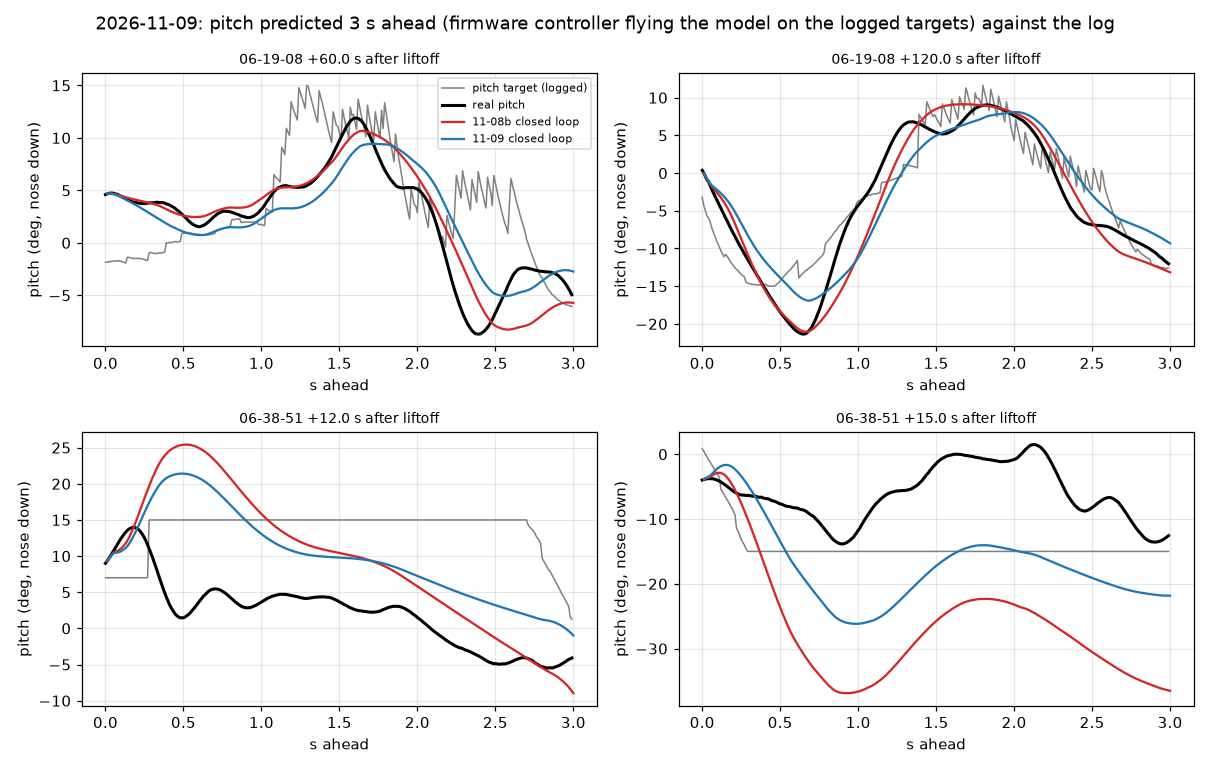
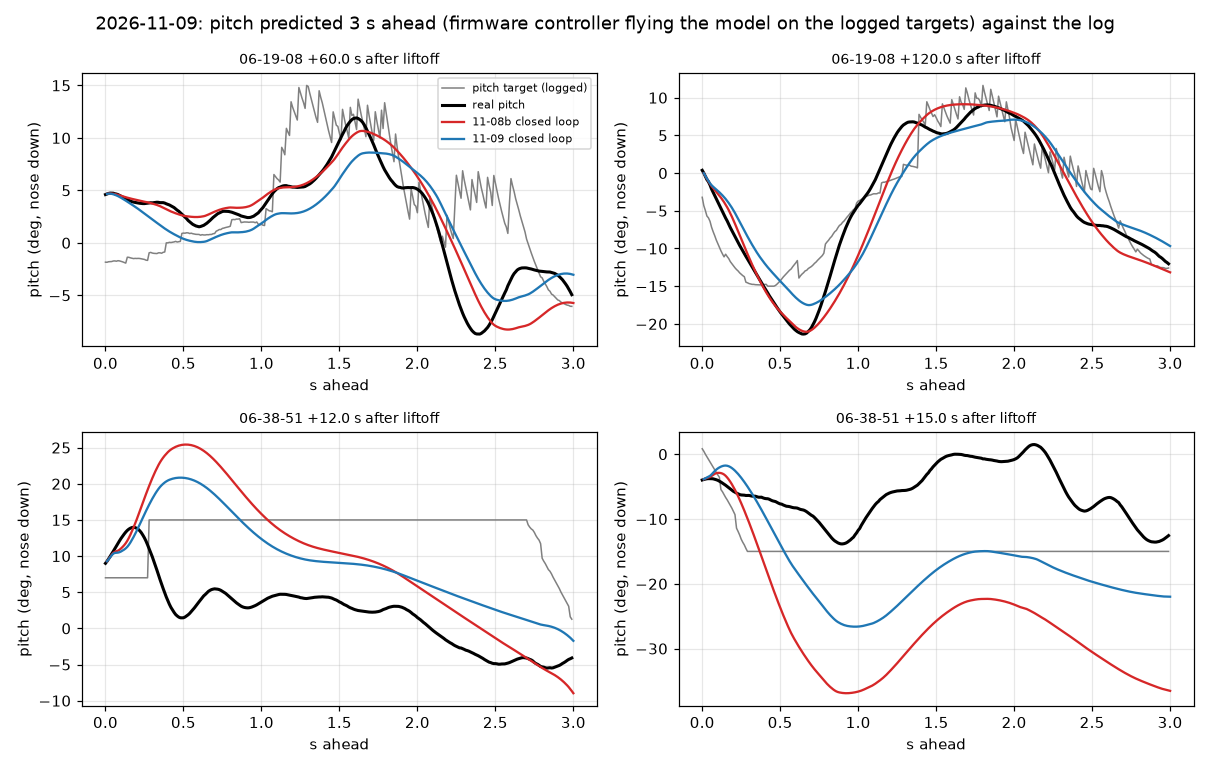
airframe_2026-11-09: com_x 0.00018 m (was 0.00075) from the 2026-11-09 flights' servo tilt at zero speed (-1.7 degrees; with 0.00075 and no pushes the sim hovered with the servos 7.4 degrees back and the body 5.7 nose-down, now -2.2 and +1.7); held out by session every session moves under 0.35 degre

diff --git a/src/sw/sim/speed_hold.py b/src/sw/sim/speed_hold.py
@@ -91,7 +91,8 @@ def static(job):
     p, _ = outdoor_plant(airframe, 0.0, seed, True, True, settings.get("hover_climb", 1.0))
     # Air blowing toward the tail (world -x, the nose at engagement facing it) is a forward airspeed.
     p |= {"wind_mean": (-airspeed, 0.0), "wind": 0.0, "wind_vertical": 0.0, "disturbances": [], "gps": GPS | {"velocity_noise": 0.0, "vertical_noise": 0.0, "position_noise": 0.0, "heading": 0.0}}
-    s = dict(settings) | {"hover_camera": 0, "hover_center": 0, "hover_gps_heading": 0.0}
+    # The hold steers by the GPS only once its heading is pinned (79fa5b2), which a drone held still in a steady wind may never do: the calibration pulses pin it.
+    s = dict(settings) | {"hover_camera": 0, "hover_center": 0, "hover_gps_heading": 0.0, "hover_gps_calibrate": settings.get("hover_gps_calibrate") or 5.0}
     log = []
     result = run(s, p, seconds=seconds, seed=seed, log=log, hover=True)
     if not result["stable"]:

diff --git a/src/sw/sim/models/NOTES.md b/src/sw/sim/models/NOTES.md
@@ -304,14 +304,16 @@ Optical flow from the forward camera (outdoor.py --flow 5,30: the scene 5-30 m a
 
 **Velocity in the fits.** identify_airframe, crossval_airframe and validate_model take --truth DIR (gps_truth.py --save: IMU, barometer and latency-aligned GPS velocity smoothed per flight) as the body-frame velocity where it exists (86% of the 11-09 airborne time; the tag indoors) and, with --measured-input, as the speed terms' input at every step, a missing velocity taken as still. Carried from the attitude at the measured drag, the airframe's own velocity runs off on the level reference's error (gps_truth 1b: 0.1-0.5 m/s² per flight) by about 1 m/s in 2 s, and from takeoff on flights without any measured velocity to meters per second: before that change the roll error held out on 11-09 rose from 1.34 to 1.83 degrees at 250 ms with nothing in roll changed but the sideways drag (the moment's product held). The tables below all use it.
 
-**The model** (models/airframe_2026-11-09.json at geometry_2026-11-08b.json, 2x pitch inertia; sweep.CURRENT). 11-08b with the measured terms set (tilt_push 0.78, vx_drag 0.07, vy_drag 0.2, voltage_power 1.42, right_thrust_gain 1.111; identify_airframe.TIED now holds the first four) and the forward speed moment set to the measured balance: drag_z_x 0.128 m on the 0.07/s drag, 0.0083 N m per m/s (half of 11-08b's); drag_z_y 0.153 m so the sideways moment per m/s is unchanged (nothing has measured it); pitch_wake -0.81 and wake_tau 0.77 s as before; thrust trim and pushes from the 11-09 flights. drag_z_x is now a lever on the small measured drag, not where a drag acts (0.128 m is above the rotors at 0.094 m): the moment is mostly the rotors flapping back, which a drag at a height only stands in for. The hover sim's static balance on it: 7.66-7.76 degrees of tilt and -5.35 to -5.47 of body pitch per m/s, held to 3 m/s of headwind and blown off at 4 at hover_tilt 15 (models/static_balance_2026-11-09.png); at zero airspeed it holds the servos 7.4 degrees back where the flights' blocks sit at -1.7 (the pushes and com_x, which each flight's integrators absorb). Checks on that choice: a closed-loop multi-step fit of drag_z_x on all of drone 1's 11-08 and 11-09 flights gives 0.136 at pitch_wake -0.81 (8.3 degrees per m/s), of drag_z_x and pitch_wake together 0.147 and -0.77 (8.2), with wake_tau as well 0.150, -0.75 and 0.70 s; fitted on the 11-08 flights alone (under 1 m/s) drag_z_x goes to 0.25, twice the moment, so the speed moment needs flights at speed. Scanning pitch_wake from -0.81 to 0 with drag_z_x set for 7.8 at each, held out by session: the summed pitch error at 500 ms is 30.1/29.1/29.2/32.3 degrees at -0.81/-0.6/-0.4/0 (11-08b 30.3), at 1 s 31.3/30.3/30.1/31.2 (11-08b 31.2); -0.6 predicts 3% better, -0.81 damps the 11-02 swing as the drone did (below; 0.07 at -0.6) and the current drone's flights alone fit -0.77, so it stays. Without the lumped pitch attitude term (pitch_pendulum 0.004) every session predicts worse (11-08 indoor 8.7 against 6.0 degrees at 500 ms). Pitch inertia 1.5x and 2.5x with drag_z_x refit on the 11-08 flights score the 11-09 flights at 6.4 and 5.3 degrees (2x 6.2) at 500 ms: no evidence against 2x; the pendulum measurement is still what would settle it.
+**The model** (models/airframe_2026-11-09.json at geometry_2026-11-08b.json, 2x pitch inertia; sweep.CURRENT). 11-08b with the measured terms set (tilt_push 0.78, vx_drag 0.07, vy_drag 0.2, voltage_power 1.42, right_thrust_gain 1.111; identify_airframe.TIED now holds the first four) and the forward speed moment set to the measured balance: drag_z_x 0.128 m on the 0.07/s drag, 0.0083 N m per m/s (half of 11-08b's); drag_z_y 0.153 m so the sideways moment per m/s is unchanged (nothing has measured it); pitch_wake -0.81 and wake_tau 0.77 s as before; com_x 0.00018 m (was 0.00075) from the flights' servo tilt at zero speed (-1.7 degrees; with 0.00075 and no pushes the sim hovered with the servos 7.4 degrees back and the body 5.7 degrees nose-down, now -2.2 and +1.7); thrust trim and pushes from the 11-09 flights. drag_z_x is now a lever on the small measured drag, not where a drag acts (0.128 m is above the rotors at 0.094 m): the moment is mostly the rotors flapping back, which a drag at a height only stands in for. The hover sim's static balance on it: 7.71 degrees of tilt and -5.54 of body pitch per m/s on the 06:19 settings, held to 2.5 m/s of headwind at hover_tilt 15 (lost at 3 and 4 on william/cook's hold with calibration pulses; on the hold before 79fa5b2 with com_x 0.00075 it held 3 and blew off at 4; models/static_balance_2026-11-09.png). Checks on that choice: a closed-loop multi-step fit of drag_z_x on all of drone 1's 11-08 and 11-09 flights gives 0.136 at pitch_wake -0.81 (8.3 degrees per m/s), of drag_z_x and pitch_wake together 0.147 and -0.77 (8.2), with wake_tau as well 0.150, -0.75 and 0.70 s; fitted on the 11-08 flights alone (under 1 m/s) drag_z_x goes to 0.25, twice the moment, so the speed moment needs flights at speed. Scanning pitch_wake from -0.81 to 0 with drag_z_x set for 7.8 at each, held out by session: the summed pitch error at 500 ms is 30.1/29.1/29.2/32.3 degrees at -0.81/-0.6/-0.4/0 (11-08b 30.3), at 1 s 31.3/30.3/30.1/31.2 (11-08b 31.2); -0.6 predicts 3% better, -0.81 damps the 11-02 swing as the drone did (below; 0.07 at -0.6) and the current drone's flights alone fit -0.77, so it stays. Without the lumped pitch attitude term (pitch_pendulum 0.004) every session predicts worse (11-08 indoor 8.7 against 6.0 degrees at 500 ms). Pitch inertia 1.5x and 2.5x with drag_z_x refit on the 11-08 flights score the 11-09 flights at 6.4 and 5.3 degrees (2x 6.2) at 500 ms: no evidence against 2x; the pendulum measurement is still what would settle it.
 
-**Held out by session** (crossval_airframe zero structure, the measured velocity as input; pitch error at 250/500/1000 ms in degrees; roll is unchanged to 0.02 degrees in every session, 1.32-2.02 at 250 ms; models/heldout_attitude_2026-11-09.png): 11-01/02 bands off (1.02 kg) 11-08b 4.96/4.96/5.61, new 5.01/5.20/5.89; 11-02 weak bands 3.07/4.83/5.31, 3.17/5.11/5.67; 11-08 indoor 4.60/5.75/5.98, 4.65/6.01/6.23; 11-08 outdoor (no velocity measured, so the speed moment is idle and both predict alike) 4.21/8.85/8.82; 11-09 outdoor 3.43/5.89/5.49, 3.34/4.90/4.69, its stick steps' median response error 5.3 against 4.4 degrees. The new model predicts the GPS flights 15-17% better at 0.5-1 s and the indoor sessions 4-7% worse.
+**Held out by session** (crossval_airframe zero structure, the measured velocity as input; pitch error at 250/500/1000 ms in degrees; roll is unchanged to 0.01 degrees in every session, 1.32-2.02 at 250 ms; models/heldout_attitude_2026-11-09.png): 11-01/02 bands off (1.02 kg) 11-08b 4.96/4.96/5.61, new 5.00/5.17/5.85; 11-02 weak bands 3.07/4.83/5.31, 3.15/5.05/5.61; 11-08 indoor 4.60/5.75/5.98, 4.63/5.93/6.23; 11-08 outdoor (no velocity measured, so the speed moment is idle) 4.21/8.85/8.82, 4.14/8.52/8.53; 11-09 outdoor 3.43/5.89/5.49, 3.31/4.82/4.62, its stick steps' median response error 5.3 against 4.1 degrees. The new model predicts the GPS flights 16-18% better at 0.5-1 s, the 11-08 outdoor ones 3-4% better and the indoor sessions 3-6% worse. (The pitch_wake scan above was at com_x 0.00075; com_x 0.00018 moved every session by under 0.35 degrees.)
 
-**Horizontal velocity against the GPS truth** (validate_model --truth on every 11-09 flight, from every 0.5 s: the airframe's horizontal model integrated in the world frame from the truth at the start; RMS forward/left error in m/s at 1/2/3 s; models/gps_velocity_rms_2026-11-09.png, gps_velocity_traces_2026-11-09.png). Not held out: tilt_push and the drags were measured on these flights. Predicting no change misses 0.59/0.63, 0.67/0.89, 0.71/1.01. On the logged attitude (the translational model alone): 11-08b 0.55/0.51, 0.60/0.61, 0.61/0.63; new 0.36/0.26, 0.67/0.44, 0.96/0.59, and with each flight's constant level-reference acceleration removed 0.24/0.20, 0.42/0.33, 0.57/0.43 (11-08b 0.50/0.46, 0.54/0.54, 0.54/0.56). Closed loop (the controller flying the model's attitude): 11-08b 0.80/0.53, 0.85/0.63, 0.85/0.66; new 0.56/0.31, 0.99/0.51, 1.29/0.66; from starts above 2 m/s 11-08b 2.36/1.45 at 1 s and 2.26/1.21 at 3 s, new 1.45/0.39 and 2.84/0.83. The new model is right for a second; beyond, its forward error grows with the closed-loop pitch error (5 degrees at 1 s is 0.8 m/s² of thrust direction) and the per-flight level error, while 11-08b's 1.93/s drag pulls every prediction back to zero, which a GPS-held hover mostly is.
+**Horizontal velocity against the GPS truth** (validate_model --truth on every 11-09 flight, from every 0.5 s: the airframe's horizontal model integrated in the world frame from the truth at the start; RMS forward/left error in m/s at 1/2/3 s; models/gps_velocity_rms_2026-11-09.png, gps_velocity_traces_2026-11-09.png). Not held out: tilt_push and the drags were measured on these flights. Predicting no change misses 0.59/0.63, 0.67/0.89, 0.71/1.01. On the logged attitude (the translational model alone): 11-08b 0.55/0.51, 0.60/0.61, 0.61/0.63; new 0.36/0.26, 0.67/0.44, 0.95/0.59, and with each flight's constant level-reference acceleration removed 0.24/0.20, 0.42/0.33, 0.57/0.43 (11-08b 0.50/0.46, 0.54/0.54, 0.54/0.56). Closed loop (the controller flying the model's attitude): 11-08b 0.80/0.53, 0.85/0.63, 0.85/0.66; new 0.57/0.31, 1.01/0.51, 1.32/0.66; from starts above 2 m/s 11-08b 2.36/1.45 at 1 s and 2.26/1.21 at 3 s, new 1.47/0.39 and 2.89/0.84. The new model is right for a second; beyond, its forward error grows with the closed-loop pitch error (5 degrees at 1 s is 0.8 m/s² of thrust direction) and the per-flight level error, while 11-08b's 1.93/s drag pulls every prediction back to zero, which a GPS-held hover mostly is.
 
-**Closed loop.** swing_damping on the 2026-11-02 long tag hovers (real 0.80-0.82 Hz, damping ratio 0.12-0.28, swing band 5.0-7.6 degrees): 11-08b 0.65 Hz, 0.05, 5.7; new 0.64 Hz, 0.13, 3.5 (models/swing_2026-11-09.png). outdoor_replay (new: a flight's settings, heading error and sticks on the GPS hold in the night's 0.3 m/s of wind, 8 seeds, against its truth): the 06:25 hands-off hover (26-75 s after liftoff) swung 0.72 degrees RMS in 0.4-1.6 Hz with 1.46 of pitch SD, the sim 3.13/3.91 (11-08b) and 2.44/3.17 (new), both holding within 0.5 m: outdoors the sim swings more than the drone did. The 05:53 stick (+15 degrees for 1.9 s, then released): the drone reached 4.6 m/s in 2 s, then 5.6 and 28 m in 8 s without braking (servos 25-31 degrees forward under a 20-34 degree nose-up body); the sim peaks at 2.4 m/s (11-08b) and 3.6 (new) and both brake within 2 s (models/replays_2026-11-09.png). The 06:38 hands-off fly-away (the hold's heading off by -61 degrees, 1.4 to 4.8 m/s in 18 s, mostly sideways): the sim drifts at 0.26 (11-08b) and 0.58 m/s (new), and with 250 ms of GPS latency and 2 m/s of wind still peaks under 2.7 m/s; on its logged targets (models/pitch_traces_2026-11-09.png) the real body stayed at 0 to -13 degrees on a -15 degree target at 4 m/s while both models pitch to -26 (new) and -37 (11-08b). Neither fly-away is reproduced: what holds the body level at speed there is not in the model.
+**Closed loop.** swing_damping on the 2026-11-02 long tag hovers (real 0.80-0.82 Hz, damping ratio 0.12-0.28, swing band 5.0-7.6 degrees): 11-08b 0.65 Hz, 0.05, 5.7; new 0.63 Hz, 0.14, 3.3 (models/swing_2026-11-09.png). outdoor_replay (new: a flight's settings, heading error and sticks on the GPS hold in the night's 0.3 m/s of wind, 8 seeds, against its truth): the 06:25 hands-off hover (26-75 s after liftoff) swung 0.72 degrees RMS in 0.4-1.6 Hz with 1.46 of pitch SD, the sim 3.13/3.91 (11-08b) and 2.35/2.85 (new), both holding within 0.7 m: outdoors the sim swings more than the drone did. The fly-away replays below were flown on the hold before 79fa5b2 (the heading taken as given) with com_x 0.00075; on william/cook's hold, which steers by the GPS only once it has pinned the heading, the new model drifted 46 m in 35 s of the 05:53 hold in still air (seed 0, the heading never pinned) until the failsafe braked and landed it, so its stick replay never flew. The 05:53 stick (+15 degrees for 1.9 s, then released): the drone reached 4.6 m/s in 2 s, then 5.6 and 28 m in 8 s without braking (servos 25-31 degrees forward under a 20-34 degree nose-up body); the sim peaks at 2.4 m/s (11-08b) and 3.6 (new) and both brake within 2 s (models/replays_2026-11-09.png). The 06:38 hands-off fly-away (the hold's heading off by -61 degrees, 1.4 to 4.8 m/s in 18 s, mostly sideways): the sim drifts at 0.26 (11-08b) and 0.58 m/s (new), and with 250 ms of GPS latency and 2 m/s of wind still peaks under 2.7 m/s; on its logged targets (models/pitch_traces_2026-11-09.png) the real body stayed at 0 to -13 degrees on a -15 degree target at 4 m/s while both models pitch to -26 (new) and -37 (11-08b). Neither fly-away is reproduced: what holds the body level at speed there is not in the model.
 
-**Thrust-direction hold on the new model** (outdoor.py as 74e7ae6 ran it: 06:38 settings, GPS, barometer at 2 s, speed moment drawn x0.7-1.4, rotor drag drawn in the measured 0.03-0.15 and 0.1-0.25/s, 64 runs per wind, 25 s; held/lost/flew off of 64 at 0/1/2/3 m/s; models/thrust_direction_2026-11-09.png). Hands-off: off 64/0/0, 62/0/2, 52/0/12, 43/0/21 (median distance 0.80-1.25 m); hover_kd 1.5 alone 64/0/0, 62/0/2, 50/0/14, 42/1/21; k 0.66 with hover_kd 1.5 64/0/0, 64/0/0, 64/0/0, 62/1/1; k 0.8 the same (0.67-1.03 m). With the stick sequence (10 degrees forward 2 s, back 2 s, sideways 1.5 s): off 62/0/2, 61/0/3, 59/0/5, 58/0/6 (peak 3.0 m/s, under 0.3 m/s 2.1-3.1 s and 3.5-3.9 m after release); k 0.66 64/0/0, 64/0/0, 63/1/0, 59/5/0 (peak 3.8-4.2 m/s, 2.8-3.6 s, 5.6-6.0 m); k 0.8 64/0/0, 64/0/0, 63/1/0, 64/0/0 (peak 3.7-3.9 m/s, 2.6-3.3 s, 5.1-5.4 m). On 11-08b the same runs with the hold on lost 2-15 of 64 at 2-3 m/s (the most with sticks at k 0.66) and flew off 6-7 hands-off at 3 m/s. On the measured balance the hold removes the fly-offs without 11-08b's attitude losses, k 0.8 (the measured tilt push) is at least as good as 0.66, and a held stick, now setting the thrust direction, moves the drone about 30% faster and stops it 1.5 m later.
+**Thrust-direction hold on the new model** (outdoor.py as 74e7ae6 ran it, on its hold and with com_x 0.00075: 06:38 settings, GPS, barometer at 2 s, speed moment drawn x0.7-1.4, rotor drag drawn in the measured 0.03-0.15 and 0.1-0.25/s, 64 runs per wind, 25 s; held/lost/flew off of 64 at 0/1/2/3 m/s; models/thrust_direction_2026-11-09.png). Hands-off: off 64/0/0, 62/0/2, 52/0/12, 43/0/21 (median distance 0.80-1.25 m); hover_kd 1.5 alone 64/0/0, 62/0/2, 50/0/14, 42/1/21; k 0.66 with hover_kd 1.5 64/0/0, 64/0/0, 64/0/0, 62/1/1; k 0.8 the same (0.67-1.03 m). With the stick sequence (10 degrees forward 2 s, back 2 s, sideways 1.5 s): off 62/0/2, 61/0/3, 59/0/5, 58/0/6 (peak 3.0 m/s, under 0.3 m/s 2.1-3.1 s and 3.5-3.9 m after release); k 0.66 64/0/0, 64/0/0, 63/1/0, 59/5/0 (peak 3.8-4.2 m/s, 2.8-3.6 s, 5.6-6.0 m); k 0.8 64/0/0, 64/0/0, 63/1/0, 64/0/0 (peak 3.7-3.9 m/s, 2.6-3.3 s, 5.1-5.4 m). On 11-08b the same runs with the hold on lost 2-15 of 64 at 2-3 m/s (the most with sticks at k 0.66) and flew off 6-7 hands-off at 3 m/s. On the measured balance the hold removes the fly-offs without 11-08b's attitude losses, k 0.8 (the measured tilt push) is at least as good as 0.66, and a held stick, now setting the thrust direction, moves the drone about 30% faster and stops it 1.5 m later.
+
+**The same on william/cook's hold** (79fa5b2's heading pinning, the hold's heading belief drawn within ±30 degrees, and 57017c0's fly-away failsafe; the final model; held/lost/flew off/landed by the failsafe of 64 at 0/1/2/3 m/s; models/thrust_direction_merged_2026-11-09.png). New model hands-off: off 54/0/8/2, 62/0/2/0, 58/1/4/1, 43/1/7/13; k 0.66 62/0/2/0, 62/0/2/0, 63/0/1/0, 63/0/0/1; k 0.8 62/0/0/2, 62/0/2/0, 63/0/1/0, 64/0/0/0. 11-08b hands-off: off 62/0/2/0, 63/0/1/0, 50/2/2/10, 33/1/5/25; k 0.8 64/0/0/0, 64/0/0/0, 61/2/1/0, 52/6/2/4. With the sticks, new model: off 60/0/0/4, 63/0/0/1, 59/3/0/2, 51/2/0/11; k 0.8 56/0/0/8, 54/0/0/10, 61/0/0/3, 52/0/0/12 (the failsafe lands what the faster stick moves carry past its limits). In still air hands-off the new airframe flies off where 11-08b held (8 against 2 of 64 with the hold off): until the heading pins the hold runs on its drag model and the servos' speed reading, and the likely cause (not yet checked) is that reading's tuning to the old balance (hover.h speed_tilt 5 degrees per m/s, fitted indoors, against the measured 7.8). The thrust-direction hold removes those as well; hands-off with k 0.8 the new model loses or flies off at most 1 of 64 at any wind to 3 m/s.
 
 **What a tossed-drone sim would still get wrong.** Every attitude and speed term was measured within about ±20-35 degrees and 4.4 m/s forward (rigid.py fades the attitude terms out past 0.6 rad and clips the speed terms); the sideways speed moment has never been measured at speed (06:38 was mostly sideways flight); nothing has measured the rotors in descent, at a high inflow angle or tumbling, the ESC start from standstill beyond the takeoffs' 0.16 s, or the servos at their stops; the pitch inertia (2x the CAD) is a fit, not a measurement; and the sim swings more in a calm outdoor hover than the drone did. For the outer loop: the level reference's error (0.1-0.5 m/s² per flight) is a real disturbance the hold must integrate out, and the GPS hold's heading error (to 60 degrees on 06:33-06:38) matters more than the airframe to a hands-off drift.
